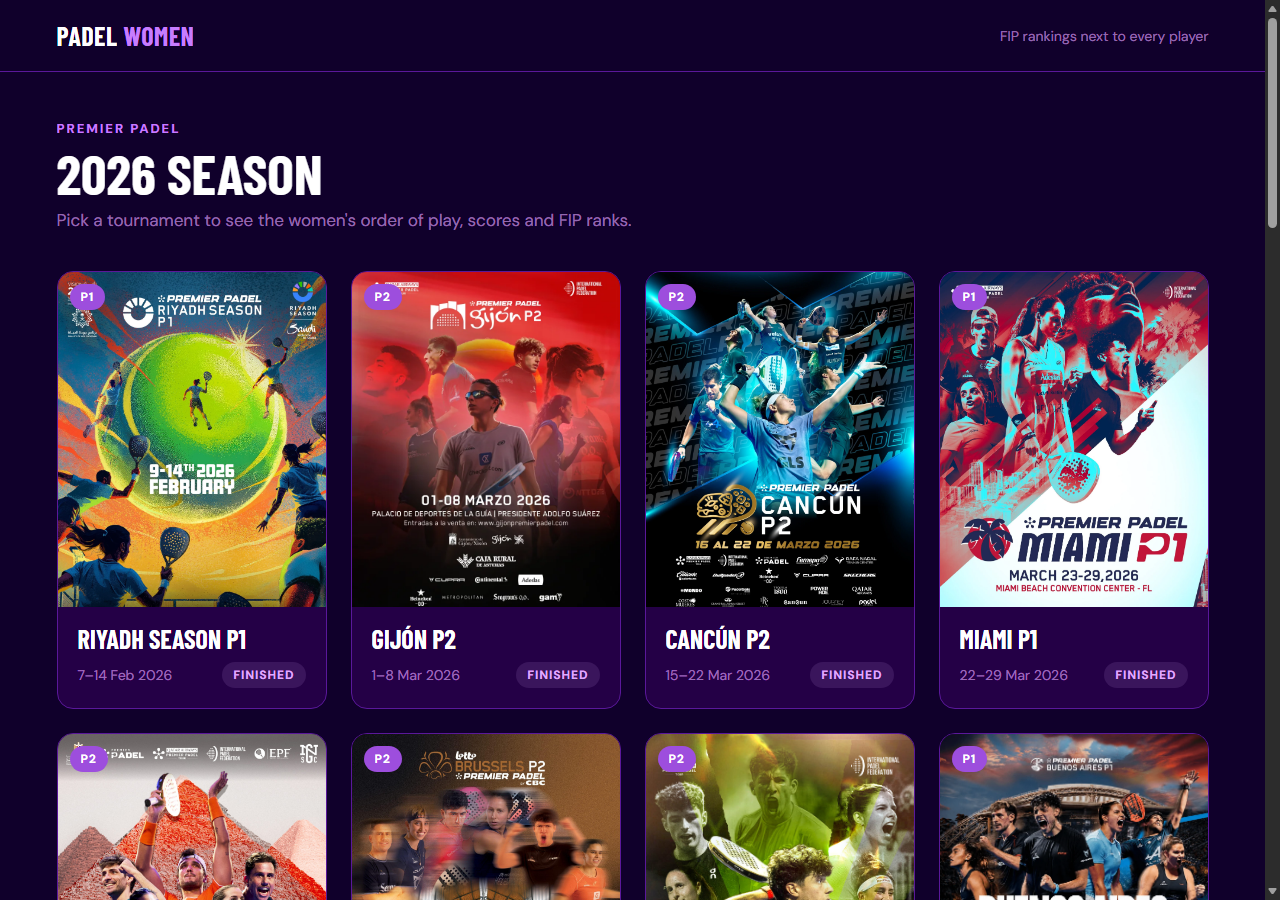
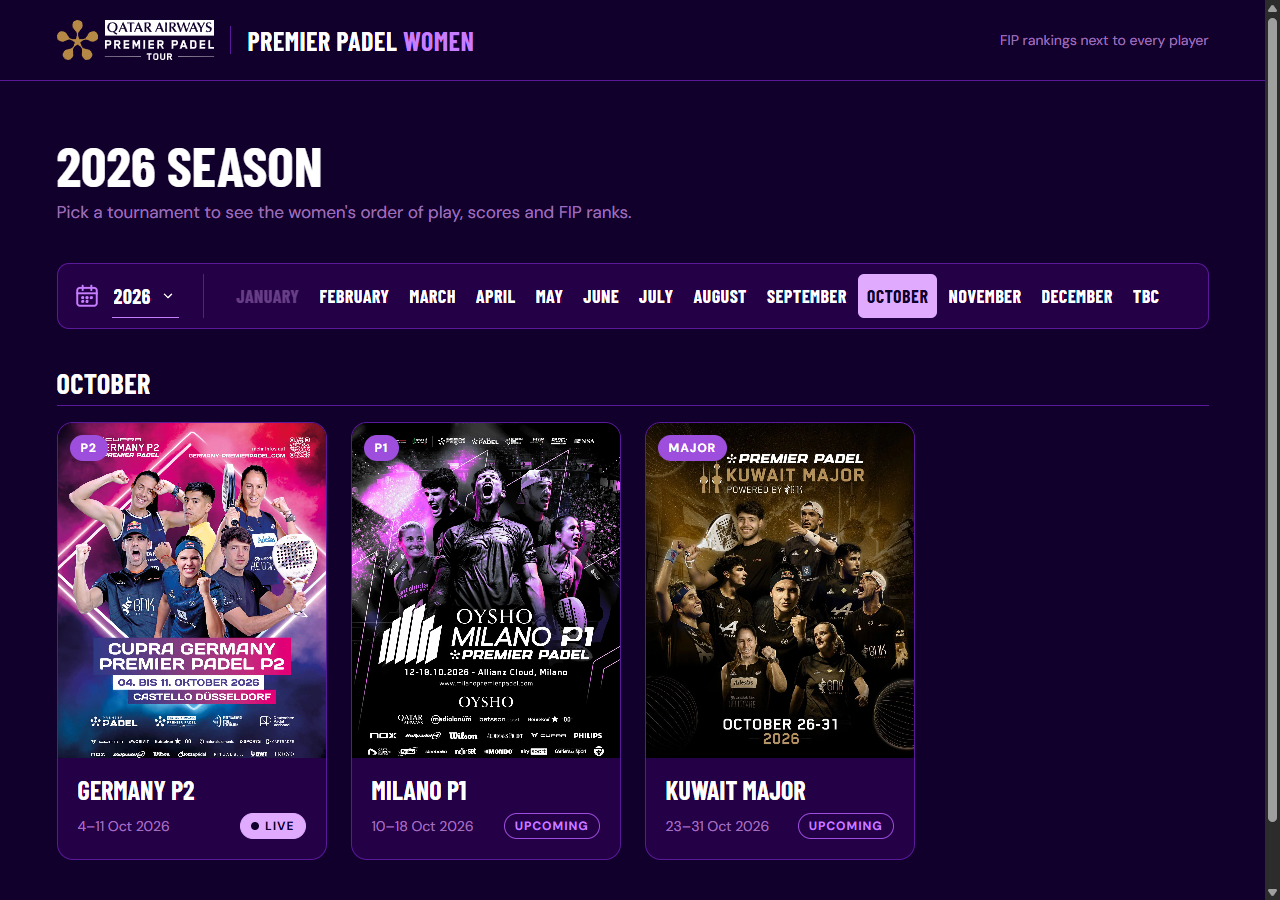
Document past seasons, the landing filter and the new entry list parser
README and CLAUDE.md: --year, the season and month filter, tournaments
without a women's draw, the column-based PDF parser, name merging with
data/player_aliases.json and partner history across seasons. New landing
screenshot with the filter bar.

diff --git a/CLAUDE.md b/CLAUDE.md
@@ -23,13 +23,17 @@ python main.py --force-refresh --open
 # Pick a tournament by slug (default: the one being played today, else the most recent)
 python main.py --tournament buenos-aires-p1-2026 --open
 
-# Every tournament + landing page (finished ones come from the frozen cache)
+# Every tournament of the current season + landing page (finished ones come from the frozen cache)
 python main.py --all --serve --watch --open
+
+# Another season, or every season (2023 onwards) — the landing page always lists all of them
+python main.py --all --year 2024
+python main.py --all --year all
 
 # Debug PDF parsing when a new tournament's PDF layout differs
 python -c "from scrape_rankings import _debug_pdf_rows; from tournaments import get_tournament; _debug_pdf_rows(get_tournament('buenos-aires-p1-2026').entry_list_pdf_url)"
 
-# Discover all Premier Padel tournaments of a season → data/tournaments.json + data/pdfs/
+# Discover all Premier Padel tournaments of a season → data/tournaments.json + data/pdfs/ (2023 is the first season)
 python discover_tournaments.py --year 2026
 python discover_tournaments.py --year 2026 --only buenos-aires-p1-2026   # single tournament
 python discover_tournaments.py --year 2026 --overwrite                   # scraped values replace existing ones
@@ -76,15 +80,29 @@ padelfip.com entry list PDF →  scrape_rankings.py →  rankings cache + lookup
 
 Widget names are abbreviated (`A. Sanchez Fallada`); PDF names are full (`Ariana Sanchez Fallada`). `_make_lookup_index()` builds keys from all contiguous sub-sequences of last-name parts so both `M. Calvo` and `M. Santamaria` resolve to `Martina Calvo Santamaria`.
 
+A list can spell a name shorter than the widget (`Aida Martinez` / `A. Martinez Sanjuan`): `build_lookup_index(cache, long_names)` also indexes each player under her longest known name — the canonical names of the tournament's rows in `data/partnerships.json` — so the card finds her and not the higher-ranked `Araceli Martinez`. A name that still fits several players gets the highest-ranked one.
+
+### Entry list PDF parsing (`_parse_pdf_pairs` in `scrape_rankings.py`)
+
+The layout changed several times between 2023 and 2026, so the parser works on **word positions**, not text lines:
+
+- A pair is the block of rows above its **points row** (`17660 points 17660 points`; also `N/A points`, `78points`, a trailing `PR`). Both player columns are left-aligned and the points start each column: `_player_columns()` takes the two column edges from the x of the points entries (per page, else per document).
+- `_block_players()` assigns the block's words by x: numbers left of column 1 are position + ranking 1, a number between the columns is ranking 2, every other word from a column's edge on is that player's name — also when the name wraps onto a second line. A trailing 2–3 capital-letter word is the nationality (absent in two 2025 lists). `PR`, `WC`, `N/A`, `Lli` / `LL i` are markers, not name words.
+- Two older layouts have one pair per line: `_SLASH_ROW_RE` (Italy Major / Madrid P1 2023: `NAME // NAME ESP/ESP pts pts total`, no rankings) and `_ONE_LINE_ROW_RE` (Finals 2024).
+- `rank` is None when the list has no ranking for the player (no ranking column: Italy Major and Madrid P1 2023, Brussels and Sevilla P2 2024; `N/A`; 0) — the pair still counts for partner tracking, the card gets no rank badge. A block that cannot be read (letter-spaced text) is skipped.
+- Sections: the first pairs are `MAIN DRAW` even without a heading (2024 lists have none).
+- Checking a parser change: parse every `data/pdfs/*/entry_list_women.pdf` before and after and compare the pairs — no existing pair may be lost or altered.
+
 ### Caches
 
 | File | Content | TTL |
 |---|---|---|
-| `data/cache/<slug>/entry_list.json` | Parsed PDF players `{slug: {rank, full_name, …}}`, one per tournament | 24 h; permanent once the tournament is frozen |
-| `data/cache/<slug>/matches.json` | Frozen widget data of a finished tournament (`bodies_by_day` before badge injection, `days_matches`, `stylesheet_urls`) | permanent (`--force-refresh` re-fetches) |
+| `data/cache/<slug>/entry_list.json` | Parsed PDF players `{slug: {rank, full_name, …}}`, one per tournament | 24 h; permanent once the tournament is frozen (delete the file to re-parse the local PDF, e.g. after a parser change) |
+| `data/cache/<slug>/matches.json` | Frozen widget data of a finished tournament (`bodies_by_day` before badge injection, `days_matches`, `stylesheet_urls`); every day empty = no women's draw | permanent (`--force-refresh` re-fetches) |
 | `data/cache/<slug>/stats.json` | Match stats of finished matches `{match_id: stats \| null}` (`null` = no stats, written only once the tournament is frozen) | permanent (`--force-refresh` re-fetches) |
 | `output/fonts/` | DINPro `.woff` files, shared by all tournament pages (`../fonts/`) | permanent (delete to re-download) |
-| `data/partnerships.json` | Every pair of every entry list | rebuilt when a PDF or `tournaments.json` is newer |
+| `data/partnerships.json` | Every pair of every entry list | rebuilt when a PDF, `tournaments.json` or `player_aliases.json` is newer (not after a parser change: run `python partnerships.py`) |
+| `data/player_aliases.json` | Hand-kept `{variant slug: usual slug}` for name spellings no rule connects | manual |
 | `data/tournaments.json` | Season tournament list from `discover_tournaments.py` | merged on each run |
 | `data/pdfs/<slug>/entry_list_women.pdf` | Local copy of each women's entry list | permanent (re-downloaded if URL changes) |
 
@@ -94,10 +112,10 @@ No tournament constants are hardcoded. `tournaments.py` reads `data/tournaments.
 
 - `main.py --tournament <slug>` selects one; without it `default_candidates()` lists the tournaments whose dates include today (latest start first), then the most recent finished one, and `main.py` takes the first that has women's matches — the next tournament's qualifying can start on the day of a final, with no women's matches yet.
 - The `Tournament` is passed explicitly: `scrape_all_days(t)`, `fetch_one_day(t, day)`, `get_today_day(t)`, `fetch_oop_url(t, day)`, and stored in the watch-loop `state["tournament"]`.
-- Page title is `f"{t.name} — Women"`.
-- `get_rankings_from_pdf(url, cache_path, local_pdf_path)` falls back to `data/pdfs/<slug>/entry_list_women.pdf` if the download fails; with no PDF at all it returns `{}` (no rank badges).
+- Page title is `f"{t.name} — Women"`. `tournaments.short_name()` gives the name for cards, page headings and tooltips: "Premier Padel" and the season are dropped wherever they stand (`BNL Italy Major Premier Padel 2023` → `BNL Italy Major`).
+- `get_rankings_from_pdf(url, cache_path, local_pdf_path)` falls back to `data/pdfs/<slug>/entry_list_women.pdf` if the download fails; a frozen tournament reads that local copy without trying the download. With no PDF at all it returns `{}` (no rank badges).
 
-- `tournament_id` is an int, or a **string when it has a leading zero** (Gijón is `"0905"`; the widget returns an empty schedule for `905`).
+- `tournament_id` is an int, or a **string when it has a leading zero** (Gijón 2026 is `"0905"`; the widget returns an empty schedule for `905` — while Gijón 2025 is `905`). IDs repeat across seasons (`902`, `5101`): the widget URL carries the year and every cache is keyed by slug.
 
 New season / new tournament: run `python discover_tournaments.py --year <year>` — no code edits.
 
@@ -105,7 +123,7 @@ New season / new tournament: run `python discover_tournaments.py --year <year>` 
 
 ```
 output/
-├── index.html          # landing page: one poster card per tournament (name, tier, dates, status)
+├── index.html          # landing page: every season, one poster card per tournament (name, tier, dates, status)
 ├── assets/theme.css    # design tokens (CSS variables only) — linked by every page
 ├── assets/overrides.css # match-card restyling, scoped under .fip-theme — tournament pages only
 ├── assets/premier-padel-logo.svg # landing header logo; links to the season's padelfip.com calendar
@@ -113,17 +131,20 @@ output/
 └── <slug>/index.html   # one page per tournament, with a "← All tournaments" link
 ```
 
-- `python main.py --all` generates every tournament in `data/tournaments.json`; without `--all` only one tournament page is generated. Both rewrite the landing page (`_write_landing()`), which links only to pages that exist on disk.
+- `python main.py --all` generates every tournament of the current season (today's year, else the newest); `--all --year 2024` another season, `--all --year all` every tournament in `data/tournaments.json`. Without `--all` only one tournament page is generated. All of them rewrite the landing page (`_write_landing()`), which covers every season and links only to pages that exist on disk.
 - `--output FILE` (single tournament only) writes a standalone page: fonts next to the file, no back link, no landing page.
-- **Frozen cache**: `Tournament.is_frozen()` is true from the second day after the last day (a final in the Americas can still be live after local midnight). A frozen tournament is fetched once, saved to `data/cache/<slug>/matches.json`, and later runs make **zero HTTP requests** for it. It is frozen only if it has matches and no day failed with a non-404 error.
-- **Landing statuses**: Finished / Ongoing / Upcoming from the dates; `No data` = finished but no page; `Postponed` comes from `tournaments.json`. Upcoming tournaments are probed with one request (day 1) per run and get a page as soon as the schedule exists.
+- **Frozen cache**: `Tournament.is_frozen()` is true from the second day after the last day (a final in the Americas can still be live after local midnight). A frozen tournament is fetched once, saved to `data/cache/<slug>/matches.json`, and later runs make **zero HTTP requests** for it. It is frozen only if the schedule has matches (of any category — `scrape_all_days()` returns that count as its fifth value) and no day failed with a non-404 error.
+- **No women's draw**: a frozen cache whose days are all empty means the tournament was played without women (Qatar Major 2023, Mendoza P1 2023). `_no_womens_draw()` → no page, and the tournament is left off the landing page. A schedule with no match at all is not frozen: the ID may be wrong.
+- **Landing statuses**: Finished / Ongoing / Upcoming from the dates; `No data` = finished but no page and no frozen cache; `Postponed` comes from `tournaments.json`. Upcoming tournaments are probed with one request (day 1) per run and get a page as soon as the schedule exists. A season is listed once it has a page or a tournament still to be played.
+- **Landing filter** (`generate_landing_html()` + `_LANDING_JS`, design in `design/reference/`): every season's month sections are in the page (`section.fip-month[data-year][data-month]`, month = the month the tournament starts in, `tbc` for undated ones); the script shows one (season, month) at a time. State lives in the URL hash (`#2025-03`, `#2026-tbc`); default is this year and this month, else the season's first month with tournaments. `#live` selects the month of the ongoing tournament (`data-live` on the nav). Tournament pages link back with their own hash (`../index.html#2026-09`). Without JavaScript the filter bar stays hidden and every section is visible.
 
 ### Tournament discovery (`discover_tournaments.py`)
 
 Standalone; writes the `data/tournaments.json` that `main.py` reads. `requests + BeautifulSoup` only, 1 s between requests.
 
 - **Calendar** (`/calendar-premier-padel/?events-year={year}`) only yields event URLs. Tier and ID are on the **event page**: `class="event category-event-fip-ppt-p1 idEvent_2209"`. Finals use `category-event-fip-pp-master-finals`.
-- **Dates**: `p.overview__text` under "Qualification" / "Main draw" (else the `MAIN DRAW …` / `QUALIFIERS …` lines of the "General info:" block); fallback is the header `div.event__date` (`DD/MM/YYYY - DD/MM/YYYY`, or `POSTPONED`). When the two disagree, the one matching the OOP widget's `totalday` wins (from the JSON-escaped `fetchUrl: "…get-oop-data.php?…&totalday=8…"`).
+- **Dates**: `p.overview__text` under "Qualification" / "Main draw" (else the `MAIN DRAW …` / `QUALIFIERS …` lines of the "General info:" block; older pages write `9-11/03/2025` or `29th September`); fallback is the header `div.event__date` (`DD/MM/YYYY - DD/MM/YYYY`, or `POSTPONED`). When the two disagree, the one matching the OOP widget's `totalday` wins (from the JSON-escaped `fetchUrl: "…get-oop-data.php?…&totalday=8…"`).
+- **Older seasons**: `--year 2023` … `2025` work the same way (the calendar has no 2022 page). Some events have no women's entry list (Qatar Major 2023, Mendoza P1 2023, Acapulco P1 2024) and some slugs carry no year (`premier-padel-cancun-p2`).
 - **Entry list PDF** is loaded by JS: `POST /wp-admin/admin-ajax.php` with `action=load_entrylist_tab`, `security=<nonce from var padelfip_ajax>`, `post_id=<#entrylist-ajax-container data-post-id>`. The response `data.html` contains `var pdfMap = {"M": {"": url}, "W": {"": url}}` — women's PDF is `pdfMap.W[""]`. On 403 the nonce is refreshed once via `action=padelfip_refresh_nonce`.
 - **Merge**: existing non-null values in `data/tournaments.json` win (manual edits survive); `status` (finished / ongoing / upcoming / postponed) is always recomputed; `start_date` / `end_date` / `total_days` are replaced whenever the site gives them (FIP moves qualifying days, and a stale start shifts every widget day); `--overwrite` lets scraped values replace them. The PDF is re-downloaded only when missing, when its URL changed, or with `--overwrite`.
 
@@ -131,15 +152,15 @@ Standalone; writes the `data/tournaments.json` that `main.py` reads. `requests +
 
 - **Source**: the local entry list PDFs (`data/pdfs/<slug>/entry_list_women.pdf`). `_parse_pdf_pairs()` in `scrape_rankings.py` returns pairs with their section (MAIN DRAW / QUALIFICATIONS / WAITING LIST); `_parse_pdf_players()` is built on it. All three sections count as history — waiting-list pairs do sometimes play.
 - **`data/partnerships.json`**: one row per pair per tournament: `{tournament_slug, section, player_slug, player_name, partner_slug, partner_name}`. `load_partnerships()` rebuilds it automatically when a PDF or `tournaments.json` is newer.
-- **Name variants**: `_canonical_slugs()` merges a name whose words are a prefix of a longer one (`marta-borrero-fernandez` → `…-de-la-puente`).
-- **Rule**: `previous_partners(rows, slug)` gives each player's partner in the most recent *earlier* tournament she entered (not just the previous one on the calendar). A team on a match card is a new pair when either player's previous partner differs from her partner on the card. First tournament of the season → no history → no badge.
+- **Name variants**: `_canonical_slugs()` merges a name that is a longer one with words left out, the first or the last word kept (`marta-borrero` → `marta-borrero-fernandez-de-la-puente`, `virginia-riera` → `maria-virginia-riera`) — when it fits one player only; dropped trailing surnames are tried first. `cristina-gonzalez` fits two players and stays apart. `data/player_aliases.json` connects typos and abbreviations (`…-fdz-…`, `goyenche`).
+- **Rule**: `previous_partners(rows, slug)` gives each player's partner in the most recent *earlier* tournament she entered (not just the previous one on the calendar) — **across seasons**; a tournament of another season is named with its year (`Qatar Airways Finals 2025`). A team on a match card is a new pair when either player's previous partner differs from her partner on the card. Only the very first tournament (Italy Major 2023) has no history.
 - **Card → player**: `new_pair_checker` resolves the two widget names against that tournament's entry list. An ambiguous name (`A. Martinez`) is settled by the listed pair it forms with the other player; if a player cannot be resolved (wild cards not in the PDF, unusual spellings) **no badge is shown**.
 - **Display**: `inject_new_pair_badges()` in `generate_html.py` appends `<button class="fip-new-pair">` (link icon + "New pair") to the team's `div.player-names`, under the two names. The button holds a `span.fip-new-pair-tip` card shown on hover/focus: "New partnership" / `Previously with M. Calvo` / `at Buenos Aires P1` — parsed from the checker's tooltip text (`Previously with M. Calvo (Buenos Aires P1)`, or one `Name: previously with …` line per player when both have a history). `main._inject_badges()` applies rank badges, pair badges, then `inject_emoji()`, for both the first run and watch updates.
 
 ### Match stats (`scrape_stats.py`)
 
 - **Source**: the widget loads stats on click with `POST /screen/getmatchstats?t=tol` (form-encoded `matchId, year, tournamentId, organization` — all on the card's `a.open` link as `data-id / data-year / data-tid / data-org`). The endpoint sends **no CORS header**, so the page cannot call it: Python fetches, `parse_stats_html()` turns the fragment into `{score, time, teams, periods: [{name, sections: [{title, rows: [[label, a, b]]}]}]}` (periods = Match / Set 1 / Set 2 …).
-- **`MatchStats`** (one per tournament, in `state["stats"]`): a finished match is fetched once and kept in `stats.json`; a live match is fetched again on every `update()` and never written to disk; a match not started is never requested. A finished match without stats is retried on each run until the tournament is frozen, then stored as `null` — a frozen tournament makes zero stats requests from its second run on. 0.3 s between requests; a failed request skips that match only.
+- **`MatchStats`** (one per tournament, in `state["stats"]`): a finished match is fetched once and kept in `stats.json`; a live match is fetched again on every `update()` and never written to disk; a match not started is never requested. A finished match without stats is retried on each run until the tournament is frozen, then stored as `null` — a frozen tournament makes zero stats requests from its second run on. 0.3 s between requests; a failed request skips that match only. In a frozen tournament no match counts as live (the widget left a few old matches marked live for good).
 - **Watch loop**: `_watch_update()` calls `update([body])` for today's day only (live matches + matches that just finished).
 - **Display**: `inject_match_stats()` (last step of `main._inject_badges()`) replaces each `a.open` with `<button class="fip-stats-btn" data-match="WD003">` — or removes the link when there are no stats — and appends the day's stats as `<script type="application/json" class="fip-stats-data">` inside the day panel, so the in-place refresh carries it along. `_JS` draws them in the page's single `<dialog id="fip-stats-dialog">` (tabs per period, the higher value highlighted) and redraws an open pop-up after a refresh when the numbers changed.
 
@@ -148,9 +169,10 @@ Standalone; writes the `data/tournaments.json` that `main.py` reads. `requests +
 - **Tokens**: `output/assets/theme.css` holds every color, font and spacing value as a CSS variable. No literal colors in `generate_html.py` or `overrides.css` — use `var(--…)` (and `color-mix()` for tints). Both asset files are hand-edited sources that live in `output/assets/`; `_theme_link_tags()` links them and copies them next to a standalone `--output` page.
 - **Match cards are restyled by CSS only**: `output/assets/overrides.css`, loaded after the widget's stylesheets, every rule under `.fip-theme` (the class on `#fip-panels-wrapper`). Each `table.w-100` becomes a flex column (summary row pinned with `margin-top: auto`). From 768 px up the court columns dissolve (`display: contents`) into one grid so cards in the same row are equally tall; each court keeps its own grid column via `:nth-child`. The widget CSS uses `!important` for fonts and cell padding, so a few overrides need it too.
 - **Current game points**: a live match has a `td.points` cell (`30`, `40`, `Ad`) between the team and the sets, shown as an outlined box. Other rows have an empty spacer `td` there, which stays hidden.
+- **Default day**: a tournament page opens on the last day with women's matches, not the last day with a schedule — a men's final can be played a day later (Riyadh P1 2025).
 - **"Women" label** in the card header is hidden by CSS (`.round-name b`) — the element must stay in the HTML, the gender filter reads it.
 - **Emoji** (`inject_emoji()`): a flag emoji span before each `img.flags` (code from the image file name via `_COUNTRY_ISO2`; unknown code → the image stays), 🏅 for the winners of a completed match, 👑 only when the round text is exactly "Final". Rendered with Noto Color Emoji (`--font-emoji`) because Windows has no flag emoji.
-- **Landing cards / page header**: poster from `image_url` in `data/tournaments.json` (`og:image`, or the event page's poster when `og:image` is landscape or missing); no image → court-line drawing. On the landing page the "Premier Padel Women" brand reloads the page and scrolls to `#live`, the month section of the ongoing tournament (no ongoing tournament → reload, top of the page).
+- **Landing cards / page header**: poster from `image_url` in `data/tournaments.json` (`og:image`, or the event page's poster when `og:image` is landscape or missing); no image → court-line drawing. On the landing page the "Premier Padel Women" brand reloads the page with `#live`: the season and month of the ongoing tournament are selected (no ongoing tournament → this season and this month).
 - **Local time** shows `6:34 PM · CEST (UTC+2)`; the abbreviation comes from `Intl`, and zones without one show the offset alone (`UTC−3`).
 - Widget pages are cached hard by browsers when served by a plain static server — use `--serve` (no-store headers) or a hard refresh when checking CSS changes.
 

diff --git a/README.md b/README.md
@@ -8,7 +8,7 @@ A Python tool that fetches live tournament data from the FIP match widget and ge
 
 ## Screenshots
 
-**Landing page** — one poster card per tournament (tier, dates, status):
+**Landing page** — season and month filter, one poster card per tournament (tier, dates, status):
 
 ![Landing page with tournament poster cards](docs/screenshots/landing.png)
 
@@ -35,12 +35,12 @@ A Python tool that fetches live tournament data from the FIP match widget and ge
 
 ## Output
 
-- **Landing page** — a grid of tournament cards: poster (from the event page's `og:image`, court-drawing fallback), tier, dates and status (Finished / Live / Upcoming)
+- **Landing page** — every season since 2023: a year select and month tabs show one month of tournament cards at a time (poster from the event page's `og:image`, court-drawing fallback; tier, dates and status Finished / Live / Upcoming). The choice is kept in the URL (`#2025-03`), and a tournament page links back to its own season and month
 - **Tournament header** — poster thumbnail, "← All tournaments", name, tier and dates · city
-- **Date navigation bar** — one pill per tournament day (scrolls sideways on phones); the most recent day with Women's matches is active by default
+- **Date navigation bar** — one pill per tournament day (scrolls sideways on phones); the last day with Women's matches is active by default
 - **Match cards** — the widget's original HTML, restyled only through CSS (`output/assets/overrides.css`); rank badges, NEW PAIR badges and emoji are the only added elements. Cards in the same row are equally tall
 - **FIP rank badges** — `FIP #N` pills linking to the player's padelfip.com profile in a new tab; only shown when a rank is found (no N/A badge for unranked players)
-- **NEW PAIR badges** — a `NEW PAIR` pill under a team whose players had a different partner in the most recent previous tournament they entered; hover or Tab to it to see who (`Previously with M. Calvo` / `at Buenos Aires P1`). Not shown in the first tournament of the season
+- **NEW PAIR badges** — a `NEW PAIR` pill under a team whose players had a different partner in the most recent previous tournament they entered; hover or Tab to it to see who (`Previously with M. Calvo` / `at Buenos Aires P1`). The previous tournament can be in an earlier season (`at Qatar Airways Finals 2025`)
 - **Match stats** — "Match stats" on a card opens a pop-up with the figures of the whole match and of each set (points won, break points, serve, return); live matches update while it is open. Fetched by `scrape_stats.py` and cached in `data/cache/<slug>/stats.json`
 - **Emoji** — a flag per player, 🏅 next to the winners of every completed match, 👑 next to the winners of the final (Noto Color Emoji, so flags also render on Windows)
 - **Live Local Time** — the widget's static "Local Time" field is overwritten by a JavaScript clock showing the current time at the tournament venue with its time zone (`6:34 PM · CEST (UTC+2)`; offset only where the browser knows no abbreviation), DST included, updating every 30 seconds without a page reload
@@ -57,7 +57,8 @@ A Python tool that fetches live tournament data from the FIP match widget and ge
 FIP_Project/
 ├── main.py                  # Entry point — orchestrates all steps + watch/serve loop
 ├── scrape_matches.py        # Fetches widget HTML; body extraction, gender filter, match parser
-├── scrape_rankings.py       # Downloads entry list PDF + name-matching logic
+├── scrape_rankings.py       # Entry list PDF parser + name-matching logic
+├── scrape_stats.py          # Match stats of finished and live matches
 ├── generate_html.py         # Injects rank badges; assembles multi-day HTML output
 ├── tournaments.py           # Loads data/tournaments.json; picks the tournament to generate
 ├── partnerships.py          # Partner change tracking from the entry list PDFs (NEW PAIR badge)
@@ -67,11 +68,13 @@ FIP_Project/
 ├── data/
 │   ├── cache/<slug>/entry_list.json  # Cached PDF rankings per tournament (refreshed every 24 hours)
 │   ├── cache/<slug>/matches.json     # Frozen match data of a finished tournament (never re-fetched)
+│   ├── cache/<slug>/stats.json       # Match stats of finished matches
 │   ├── tournaments.json       # Season tournament list (written by discover_tournaments.py)
 │   ├── partnerships.json      # Every pair of every tournament (built from the entry list PDFs)
+│   ├── player_aliases.json    # Hand-kept name spellings that belong to the same player
 │   └── pdfs/<slug>/entry_list_women.pdf  # Local copies of the women's entry lists
 └── output/
-    ├── index.html           # Landing page: card grid of all tournaments
+    ├── index.html           # Landing page: every season, filtered by year and month
     ├── <slug>/index.html    # One Order of Play page per tournament
     ├── assets/theme.css     # Design tokens (CSS variables) — linked by every page
     ├── assets/overrides.css # Match-card restyling, scoped under .fip-theme
@@ -114,22 +117,29 @@ python main.py --open
 # Single run — force re-download of entry list PDF (bypass 24 h cache)
 python main.py --force-refresh --open
 
-# Every tournament of the season + landing page
+# Every tournament of the current season + landing page
 python main.py --all --open
 python main.py --all --serve --watch --open   # ...and keep the ongoing tournament live
+
+# Another season, or every season (2023 onwards)
+python main.py --all --year 2024
+python main.py --all --year all
 ```
 
 ### All tournaments (`--all`)
 
-`--all` generates `output/<slug>/index.html` for every tournament in `data/tournaments.json`
-and a landing page at `output/index.html` listing them with name, tier, dates and status
-(Finished / Ongoing / Upcoming / Postponed / No data). Each tournament page has a small
-"← All tournaments" link back to it.
+`--all` generates `output/<slug>/index.html` for every tournament of the current season;
+`--year 2024` picks another season and `--year all` every season in `data/tournaments.json`.
+The landing page at `output/index.html` always lists all seasons that have something to show,
+with name, tier, dates and status (Finished / Ongoing / Upcoming / Postponed / No data). Each
+tournament page has a small "← All tournaments" link back to its season and month.
 
 - **Finished tournaments** are fetched once and frozen in `data/cache/<slug>/`; later runs make
   no HTTP requests for them. `--force-refresh` re-fetches them.
 - **Upcoming tournaments** appear on the landing page without a link; their page is generated
   once the schedule is published.
+- **Tournaments without a women's draw** (Qatar Major 2023, Mendoza P1 2023) get no page and are
+  not listed; this is remembered in the frozen cache, so they are not requested again.
 - Without `--all`, one tournament page is written to `output/<slug>/index.html`. Use
   `--output FILE` to write a standalone page somewhere else.
 
@@ -180,7 +190,7 @@ The official tournament entry list PDF is downloaded and parsed with `pdfplumber
 GET https://www.padelfip.com/wp-content/uploads/.../Entry-list-....pdf
 ```
 
-The PDF lists player pairs in a 3-line repeating pattern:
+The PDF lists player pairs as blocks of rows that end with a points row:
 
 ```
 Delfina Brea Senesi ARG Gemma Triay Pons ESP
@@ -188,11 +198,18 @@ Delfina Brea Senesi ARG Gemma Triay Pons ESP
 17660 points 17660 points
 ```
 
-Results are cached to `data/cache/<slug>/entry_list.json` and reused for 24 hours.
+The layout changed several times between 2023 and 2026 (rankings above or below the names,
+names wrapped onto two lines, no nationality, no ranking column, one pair per line), so the
+parser tells the words apart by their column — their x position on the page — and not by their
+place in the line. Lists without a ranking column (Italy Major and Madrid P1 2023, Brussels and
+Sevilla P2 2024) give pairs but no rank badges.
+
+Results are cached to `data/cache/<slug>/entry_list.json` and reused for 24 hours; a finished
+tournament keeps its cache for good and reads the local PDF copy instead of downloading.
 
 If parsing returns 0 players, run the debug helper:
 ```bash
-python -c "from scrape_rankings import _debug_pdf_rows; _debug_pdf_rows()"
+python -c "from scrape_rankings import _debug_pdf_rows; from tournaments import get_tournament; _debug_pdf_rows(get_tournament('buenos-aires-p1-2026').entry_list_pdf_url)"
 ```
 
 #### Name Matching
@@ -202,6 +219,10 @@ Widget names are abbreviated (`A. Sanchez Fallada`); PDF entries are full names 
 ```
 "Martina Calvo Santamaria"  →  keys: ("m", "calvo santamaria"), ("m", "calvo"), ("m", "santamaria")
 ```
+
+A list can spell a name shorter than the widget does (`Aida Martinez` / `A. Martinez Sanjuan`).
+Each player is therefore also indexed under her longest name known from the other entry lists,
+so the card finds her and not another A. Martinez.
 
 ---
 
@@ -253,7 +274,7 @@ Standalone script that lists every Premier Padel tournament of a season and writ
 `data/tournaments.json` used by `main.py`.
 
 ```bash
-python discover_tournaments.py --year 2026                               # whole season
+python discover_tournaments.py --year 2026                               # whole season (2023 is the first)
 python discover_tournaments.py --year 2026 --only buenos-aires-p1-2026   # one tournament
 python discover_tournaments.py --year 2026 --overwrite                   # let the site replace existing values
 ```
@@ -267,8 +288,14 @@ edits survive unless `--overwrite` is passed. `status` (finished / ongoing / upc
 
 Pairs are read from the entry list PDFs saved by the discovery script and stored in
 `data/partnerships.json`. For each team on a match card, each player's partner is compared with
-her partner in the most recent earlier tournament she entered; if it differs the team gets a
-`NEW PAIR` badge. The file is rebuilt automatically when a PDF changes.
+her partner in the most recent earlier tournament she entered — in the same or an earlier
+season; if it differs the team gets a `NEW PAIR` badge. The file is rebuilt automatically when a
+PDF changes.
+
+The lists spell some names with fewer words (`Virginia Riera` / `Maria Virginia Riera`); a name
+that is a longer one with words left out counts as the same player when only one player fits.
+Typos and abbreviations no rule can connect go into `data/player_aliases.json`
+(`{"variant-slug": "usual-slug"}`).
 
 ```bash
 python partnerships.py   # rebuild and print every partner change per tournament
@@ -325,9 +352,9 @@ PDF), no badge is shown for that team.
 
 - **Windows encoding**: Set `PYTHONUTF8=1` or run `python -X utf8 main.py` if you see encoding errors in the terminal. The HTML output is always written as UTF-8.
 - **Fonts**: Downloaded once to `output/fonts/` and reused on subsequent runs. Delete the folder to force re-download.
-- **PDF format**: If a future tournament uses a different PDF layout, run `python -c "from scrape_rankings import _debug_pdf_rows; _debug_pdf_rows()"` to inspect raw extracted lines and tune the regex constants in `scrape_rankings.py`.
+- **PDF format**: If a future tournament uses a different PDF layout, run `_debug_pdf_rows(<pdf url>)` from `scrape_rankings.py` to inspect the raw extracted lines, then adjust `_parse_pdf_pairs()`.
 - **Widget structure dependency**: The badge injector targets `div.line-thin`. If `matchscorerlive.com` changes their HTML structure, this selector may need updating.
-- **Local Time field**: The widget server embeds a static timestamp in `<div class="local-time">` at fetch time. The embedded JavaScript clock overwrites this with a live Buenos Aires clock — no page reload needed between 30-second updates.
+- **Local Time field**: The widget server embeds a static timestamp in `<div class="local-time">` at fetch time. The embedded JavaScript clock overwrites this with a live clock of the venue's time zone — no page reload needed between 30-second updates.
 
 ## Disclaimer
 This tool fetches data from matchscorerlive.com's public widget and the official FIP tournament entry lists. Use responsibly and in accordance with their terms of service.
